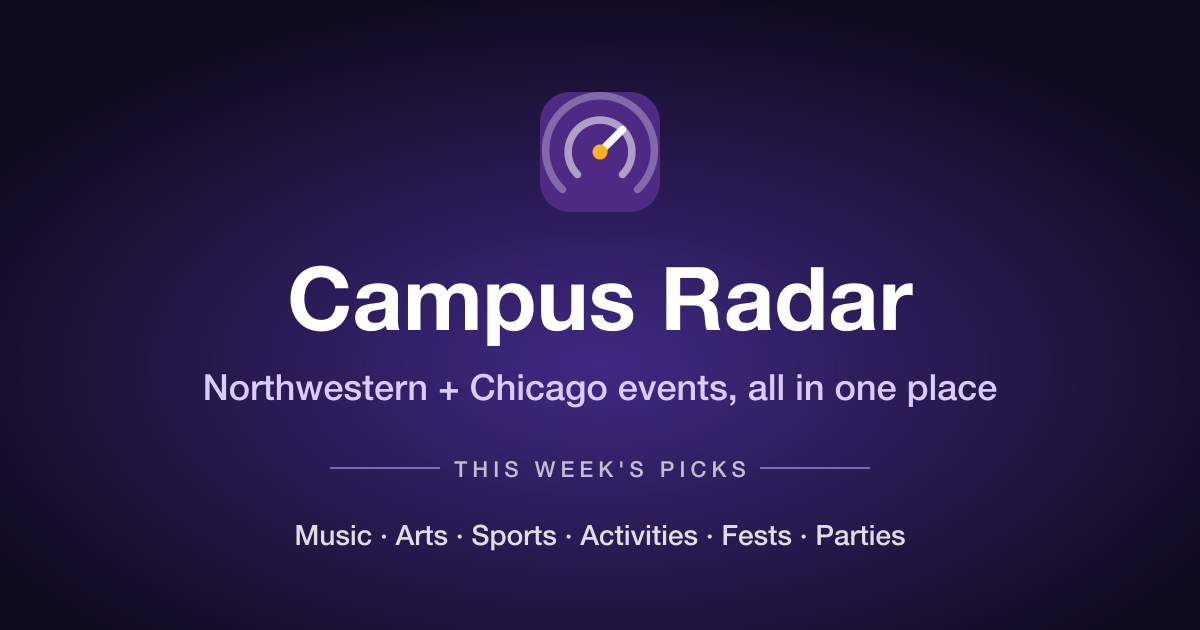
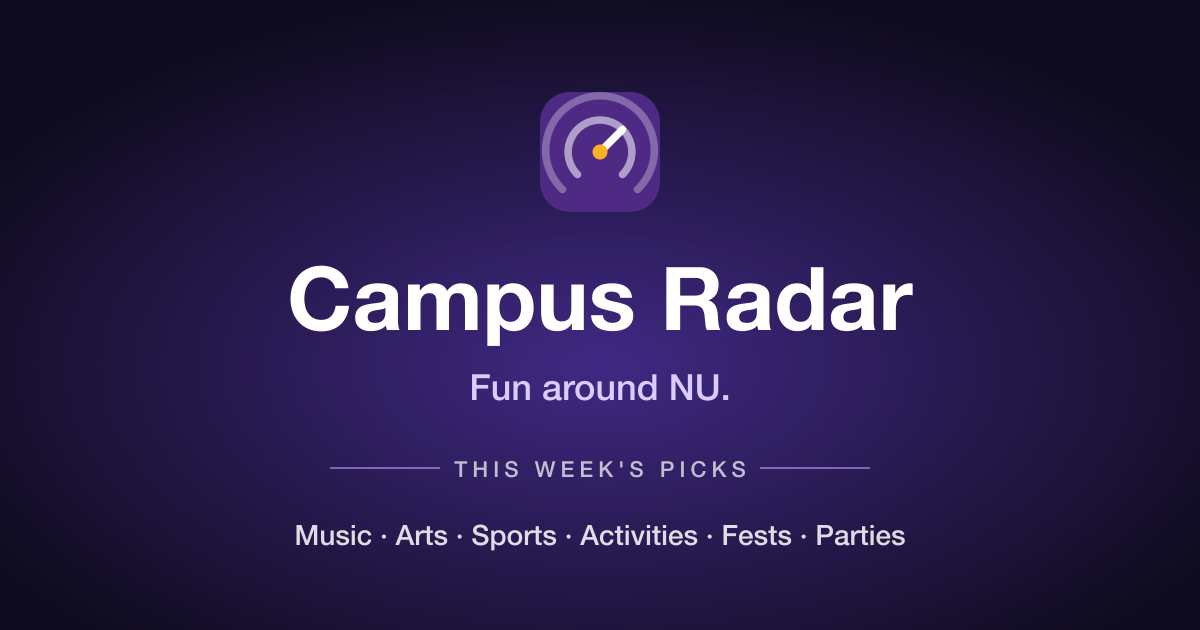
Share card slogan: "Fun around NU."

Changed region(s): [[0.1542, 0.573, 0.8325, 0.6635]]

diff --git a/apps/web/index.html b/apps/web/index.html
@@ -16,7 +16,7 @@
     <meta property="og:image" content="https://campus-radar.com/og.png" />
     <meta property="og:image:width" content="1200" />
     <meta property="og:image:height" content="630" />
-    <meta property="og:image:alt" content="Campus Radar: Northwestern + Chicago events, all in one place" />
+    <meta property="og:image:alt" content="Campus Radar: Fun around NU." />
     <meta name="twitter:card" content="summary_large_image" />
     <link rel="preconnect" href="https://fonts.googleapis.com" />
     <link rel="preconnect" href="https://fonts.gstatic.com" crossorigin />
